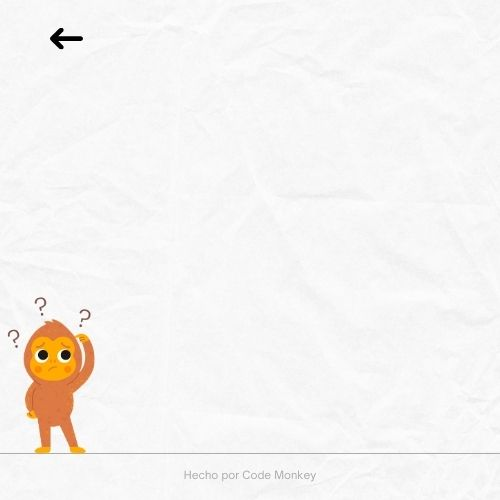
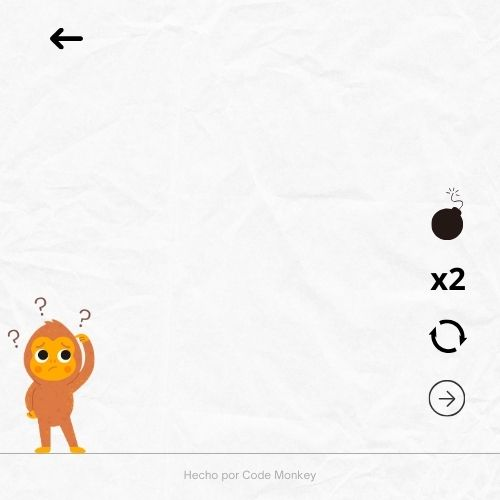
Se modifico la imagen de preguntas (se le agrego el icono de bomba/x2/doble chance y siguiente) y en Configuracion/Funciones y Puntuaciones se elimino los print

diff --git a/Puntuaciones.py b/Puntuaciones.py
@@ -38,8 +38,6 @@ def leer_json():
     if os.path.exists(ranking):
         with open('partidas.json', "r") as archivo:
             lista_ranking = json.load(archivo)            
-    else:
-        print("La lista de ranking no existe")
 
     # Ordenar los datos por el puntaje en orden descendente
     ranking_ordenado = sorted(lista_ranking, key=lambda x: x['puntuacion'], reverse=True)
@@ -62,7 +60,6 @@ def mostrar_rankings(pantalla:pygame.Surface,cola_eventos:list[pygame.event.Even
             if boton_volver["rectangulo"].collidepoint(evento.pos):
                 CLICK_SONIDO.play()
                 retorno = "menu"
-                print("VUELVE AL MENU")
 
     
     pantalla.blit(imagen_fondo, (0, 0))    

diff --git a/Configuraciones.py b/Configuraciones.py
@@ -50,11 +50,9 @@ def mostrar_ajustes(pantalla:pygame.Surface,cola_eventos:list[pygame.event.Event
                     pygame.mixer.music.get_volume()
                     pygame.mixer.music.set_volume(0.0)                     
                     datos_juego["volumen_musica"] = 0
-                    print("SILENCIA VOLUMEN MUSICA")
             elif boton_volver["rectangulo"].collidepoint(evento.pos):
                 CLICK_SONIDO.play()
                 retorno = "menu"
-                print("VUELVE AL MENU")
     
     pantalla.blit(imagen_fondo, (0, 0))
     

diff --git a/Funciones.py b/Funciones.py
@@ -33,7 +33,6 @@ def cambiar_volumen_musica(subir=True):
         nuevo_volumen = max(0.0, volumen_actual - 0.1)
         
     pygame.mixer.music.set_volume(nuevo_volumen)
-    print(f"Nuevo volumen: {nuevo_volumen}")
     
 
     
@@ -43,5 +42,4 @@ def cambiar_volumen_silencio(silencio=True):
         nuevo_volumen = max(0.0, volumen_actual - 0.0)
     
     pygame.mixer.music.set_volume(nuevo_volumen)
-    print(f"Nuevo volumen: {nuevo_volumen}")
     
